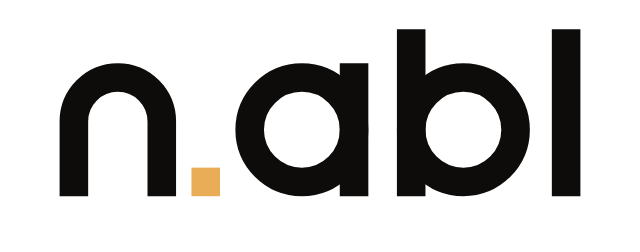
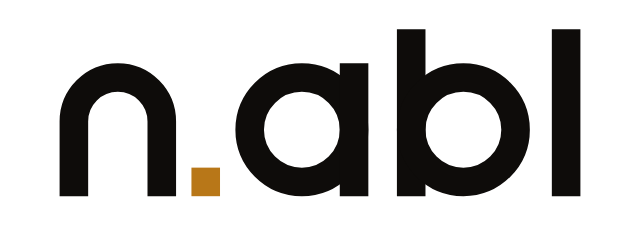
Add a one-screen status tracker, and fix the dot I got wrong
business/STATUS.md: one row per folder — last step and when, next step
and what it waits on. The point of the page is the dependency column.
Two things gate most of the list: 07-crm has no compliance fields, so
nothing can lawfully be sent and 10 and 11 are frozen behind it; and
nothing has been sold, so 12, 13, 16 and 17 all wait on the same first
conversation. Three folders depend on nothing and can be picked up now.

Four folders listed a next action that was already done — both key
rotation entries, the email README rewrite, and the legal-page framing.
Checked each against the repo and the live project rather than copying
it forward, and recorded the corrections at the foot of the tracker. A
tracker that repeats things you have stopped believing is worse than
no tracker.

Separately, the ink wordmark I added yesterday kept the plain amber dot,
which measures 1.97:1 on a near-white header — the exact light-ground
failure the brand guidelines warn about, reproduced in a new asset. The
ink colourway now takes the deep amber (3.63:1).

The reason it got through is worse than the bug: my logo contrast check
skipped the accent on the grounds that it was "meant to be amber". A
check that excludes the thing most likely to fail is decoration. It now
samples the two dominant inks and measures both, so the letterforms and
the dot are each held to 3:1 — verified by rebuilding the asset with the
wrong dot and confirming the check reports 1.86:1 and exits 1.
[…]

Changed region(s): [[0.2812, 0.6667, 0.3438, 0.7778]]

diff --git a/business/STATUS.md b/business/STATUS.md
@@ -1,0 +1,62 @@
+# Where everything stands
+
+One row per folder. Read the **Next step** column first — it is the only one
+that tells you what to do today.
+
+This file is a summary, not a source. Each folder's own README holds the detail
+and the honest status block; if the two ever disagree, the folder wins and this
+file is stale. Last reconciled against the folders and the live project on
+**16 August 2026**.
+
+## The short version
+
+Two things gate almost everything else:
+
+- **`07-crm` has no compliance fields.** Until that migration is applied, no
+  outbound message can lawfully be sent, which freezes `10-lead-sourcing` and
+  `11-outreach` behind it. It is the single highest-value unblock on this list.
+- **Nothing has been sold.** `12-pricing`, `13-credits`, `16-finance` and
+  `17-proof` are all waiting on the same event: a first real quote, from a first
+  real conversation. `18-sales-conversation` is the folder that starts it and it
+  depends on nothing.
+
+Three folders can be worked on **right now with no dependency at all**:
+`14-delivery`, `15-compute` and `18-sales-conversation`.
+
+| # &middot; Folder | Last step, and when | Next step, and what it waits on |
+|---|---|---|
+| **01** positioning<br>*in progress* | Repositioning to "technology implementation partner" decided, written up, and carried through to the site, the email pack and the CRM's outreach copy. **16 Aug** | Score a real list of 20 local businesses against the ICP and write down why each one fails. **No dependency** — this is the test the folder's own "done" definition asks for, and it has not been run. |
+| **02** brand<br>*done* | Ink colourway added for light grounds, deep-amber dot rule enforced in the export script and in the contrast checker. **16 Aug** | Apply the same light-ground dot rule to `scripts/build-logos.mjs`, which still fills the dot with plain amber on the cream variant. **No dependency.** |
+| **03** website<br>*in progress* | Homepage restructured to the buyer's journey, sections extracted into components, analytics and the SEO/legal gaps closed. **16 Aug** | Replace the illustrative examples with one real case study. **Waits on `17-proof`**, which waits on a first delivery. |
+| **04** legal<br>*in progress* | Contract checklist, scope-of-work template and NDA draft written. Three public pages live. **16 Aug** | Solicitor review. **Waits on budget.** Nothing here has been reviewed and it must not be described as if it has. Blocks the first signature. |
+| **05** portal<br>*done* | Access keys rotated to the 19-character CSPRNG format on the live project; the stray anon grant on `prune_portal_login_attempts` revoked. **16 Aug** | Turn on point-in-time recovery. **Waits on a second paying client** — before that the data loss is a rounding error. |
+| **06** team space<br>*done* | Key rotation run and verified end to end against live RLS. **16 Aug** | A month of daily use with a real client in it, then review what is actually clumsy. **Waits on the first client.** |
+| **07** crm<br>*in progress* | Pipeline in daily use; `compliance-schema.md` specifies the missing fields as DDL. **16 Aug** | **Apply the compliance migration.** Technically depends on nothing — write the SQL and run it. It gates `10` and `11` entirely, so it is the highest-leverage item on this page. |
+| **08** email pack<br>*done* | Ink wordmark on light headers, signature set in the drawn mark, and image contrast now measured rather than assumed. **16 Aug** | A real render test through Litmus or Email on Acid, Outlook on Windows first. **Waits on a list provider** and the first sequence. |
+| **09** welcome pack<br>*done* | Summariser hardened: schema-enforced response, refusal handling, current model. **16 Aug** | Pass the business name through to the summariser, then run it on a real transcript. **Waits on the first client.** |
+| **10** lead sourcing<br>*not started* | Plan written, including the correction that Google Maps must never be the database of record. **16 Aug** | Read `sources.md`, then build sourcing against Companies House. **Waits on `07-crm`** — there is nowhere lawful to put a sourced record until then. |
+| **11** outreach<br>*not started* | Plan written: two human approval gates, both before anything leaves the building. **16 Aug** | Finish `07-crm`. **Waits on `07`, then `10`.** Nothing here should be built while the shortlist it sends to does not exist. |
+| **12** pricing<br>*not started* | ROI worksheet and quote template written around the £240→£40 worked example. **16 Aug** | Send three real quotes and let them set the placeholders. **Waits on qualified conversations** from `18`. |
+| **13** credits<br>*not started* | Build / Assist / Educate defined; pack sizes deliberately left as placeholders. **16 Aug** | Decide the credit unit — the one decision everything else in the folder waits on. **Waits on the first three quotes** (`12`). |
+| **14** delivery<br>*not started* | Onboarding checklist, project runbook and handover notes written. **16 Aug** | Write the handover pack template: folder structure and contents list. **No dependency** — this can be written before there is anything to hand over, and should be. |
+| **15** compute<br>*not started* | Class 1/2/3 routing rules written, including that Claude Code local is not a local Claude model. **16 Aug** | Write down the actual hardware: CPU, RAM, GPU, VRAM on both machines. **No dependency** — ten minutes, and Class 2 planning is guesswork without it. |
+| **16** finance<br>*not started* | Running costs, spend order and tax questions written; every figure marked as a placeholder. **16 Aug** | Write down the domain cost, then decide sole trader vs limited company. **Waits on an accountant conversation** for the entity decision; the domain cost waits on nothing. |
+| **17** proof &amp; case studies<br>*not started* | Folder created; the rule established that a baseline is captured *before* work starts, not after. **16 Aug** | Prepare the baseline sheet. **Waits on delivery #1 being scheduled** — and must be done before it begins, or the proof is unrecoverable. |
+| **18** sales conversation<br>*not started* | Folder created alongside the proof engine. **16 Aug** | Read `01-positioning/objection-handling.md` and `saying-no.md`, then have a real conversation. **No dependency.** This is the folder that unfreezes `12`, `13`, `16` and `17`. |
+
+## Entries corrected while writing this
+
+Four folders listed a next action that had already been done. Left alone, a
+tracker like this becomes a list of things you have stopped believing, so they
+were checked against the repository and the live project rather than copied:
+
+- **05** and **06** both said to schedule and run the access-key rotation. It
+  was applied on 16 August; the migration header records it and the old key was
+  verified dead.
+- **08** said to rewrite `nabl-emails/README.txt` because it described a black
+  alert banner and lime accents. That rewrite happened on 16 August.
+- **03** said to fix retired framing on the public legal pages. `Legal.jsx` no
+  longer contains it.
+
+Those folder READMEs still carry the stale wording and should be trimmed the
+next time each is opened.

diff --git a/business/README.md b/business/README.md
@@ -408,6 +408,12 @@ building v4 before v3 produces exactly the liability described in section 5.
 
 ## 7. How to use this folder
 
+**For a one-screen view of where every folder stands, read
+[`STATUS.md`](STATUS.md).** It carries one row per folder: the last step and
+when it happened, the next step and what it is waiting on. This section explains
+the structure; that file tells you what to do today.
+
+
 Each folder below holds the working documents for one step, and its own README
 states what that step is, what "done" would mean, and the next concrete
 actions. A folder existing means the thinking has been written down — it does
